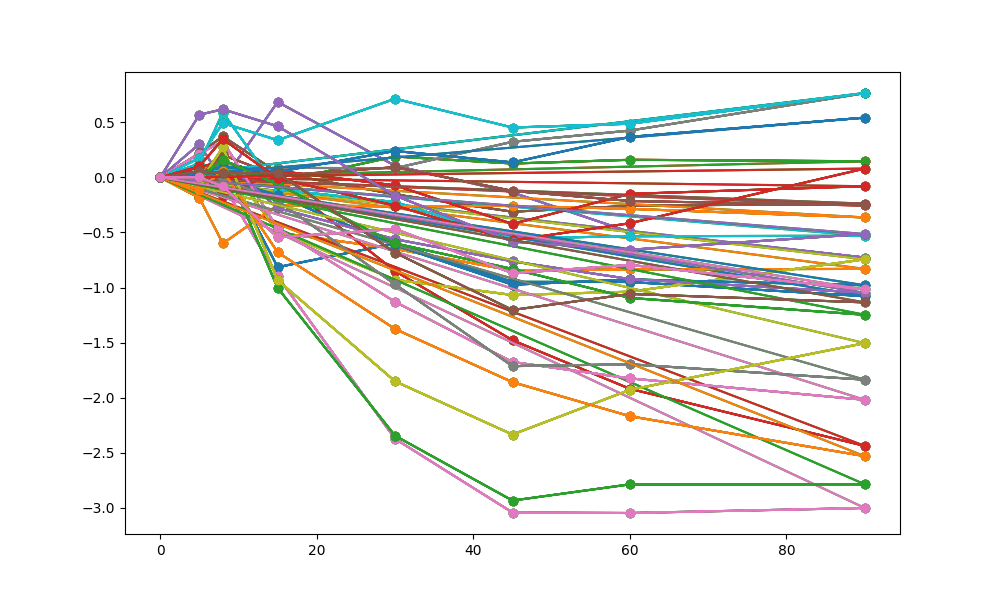
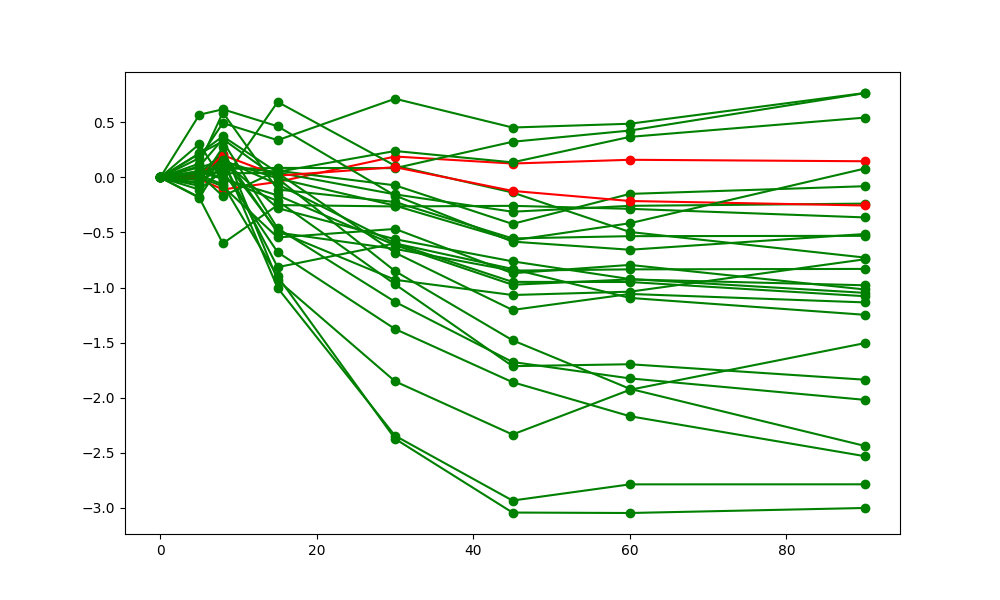
fixed amp_thresh plots

diff --git a/grn_finder.py b/grn_finder.py
@@ -172,21 +172,21 @@ def classify_time_series(num_clusters):
     print(scaled_df)
     features_scaled = scaler.fit_transform(scaled_df)
 
-    # Elbow method to determine the optimal number of clusters
-    wcss = []
-    max_clusters = 10
-    for k in range(1, max_clusters + 1):
-        kmeans = KMeans(n_clusters=k, random_state=42)
-        kmeans.fit(features_scaled)
-        wcss.append(kmeans.inertia_)
+    # # Elbow method to determine the optimal number of clusters
+    # wcss = []
+    # max_clusters = 10
+    # for k in range(1, max_clusters + 1):
+    #     kmeans = KMeans(n_clusters=k, random_state=42)
+    #     kmeans.fit(features_scaled)
+    #     wcss.append(kmeans.inertia_)
 
-    # Plotting the elbow curve
-    plt.figure(figsize=(8, 5))
-    plt.plot(range(1, max_clusters + 1), wcss, marker='o')
-    plt.title('Elbow Method for Optimal k')
-    plt.xlabel('Number of Clusters (k)')
-    plt.ylabel('Within-Cluster Sum of Squares (WCSS)')
-    plt.show()
+    # # Plotting the elbow curve
+    # plt.figure(figsize=(8, 5))
+    # plt.plot(range(1, max_clusters + 1), wcss, marker='o')
+    # plt.title('Elbow Method for Optimal k')
+    # plt.xlabel('Number of Clusters (k)')
+    # plt.ylabel('Within-Cluster Sum of Squares (WCSS)')
+    # plt.show()
 
     # Apply KMeans clustering
     kmeans = KMeans(n_clusters=num_clusters, random_state=2)
@@ -792,6 +792,7 @@ def main():
     # # get clusters and plot line graph samples
     # plot_clusters(7, scaled=True)
 
+    amp_thresh = 0.2
     for tf in exp_dict.keys():
         tf_data = exp_dict[tf]
         plt.figure(figsize=(10, 6))
@@ -805,20 +806,15 @@ def main():
             values = list(values)
             if params is None:
                 continue
-            # amp = abs(params[0])
-            # color = ''
-            # if amp > amp_thresh:
-            #     color = 'green'
-            # else:
-            #     color = 'red'
-            #plt.plot(timestamps, values, color=color, marker='o', linestyle='-')
-            plt.plot(timestamps, values, marker='o', linestyle='-')
-            plt.savefig(f"time_series_plots/tf_target/{tf}_{target}.png")
-            plt.close()
-        # plt.savefig(f"time_series_plots/amp_thresh_{amp_thresh}/{tf}.png")
-        # plt.savefig(f"time_series_plots/tf/{tf}.png")
-        
-        
+            amp = abs(params[0])
+            color = ''
+            if amp > amp_thresh:
+                color = 'green'
+            else:
+                color = 'red'
+            plt.plot(timestamps, values, color=color, marker='o', linestyle='-')
+        plt.savefig(f"time_series_plots/amp_thresh_{amp_thresh}/{tf}.png")
+        plt.close()
 
 if __name__ == '__main__':
     main()   
